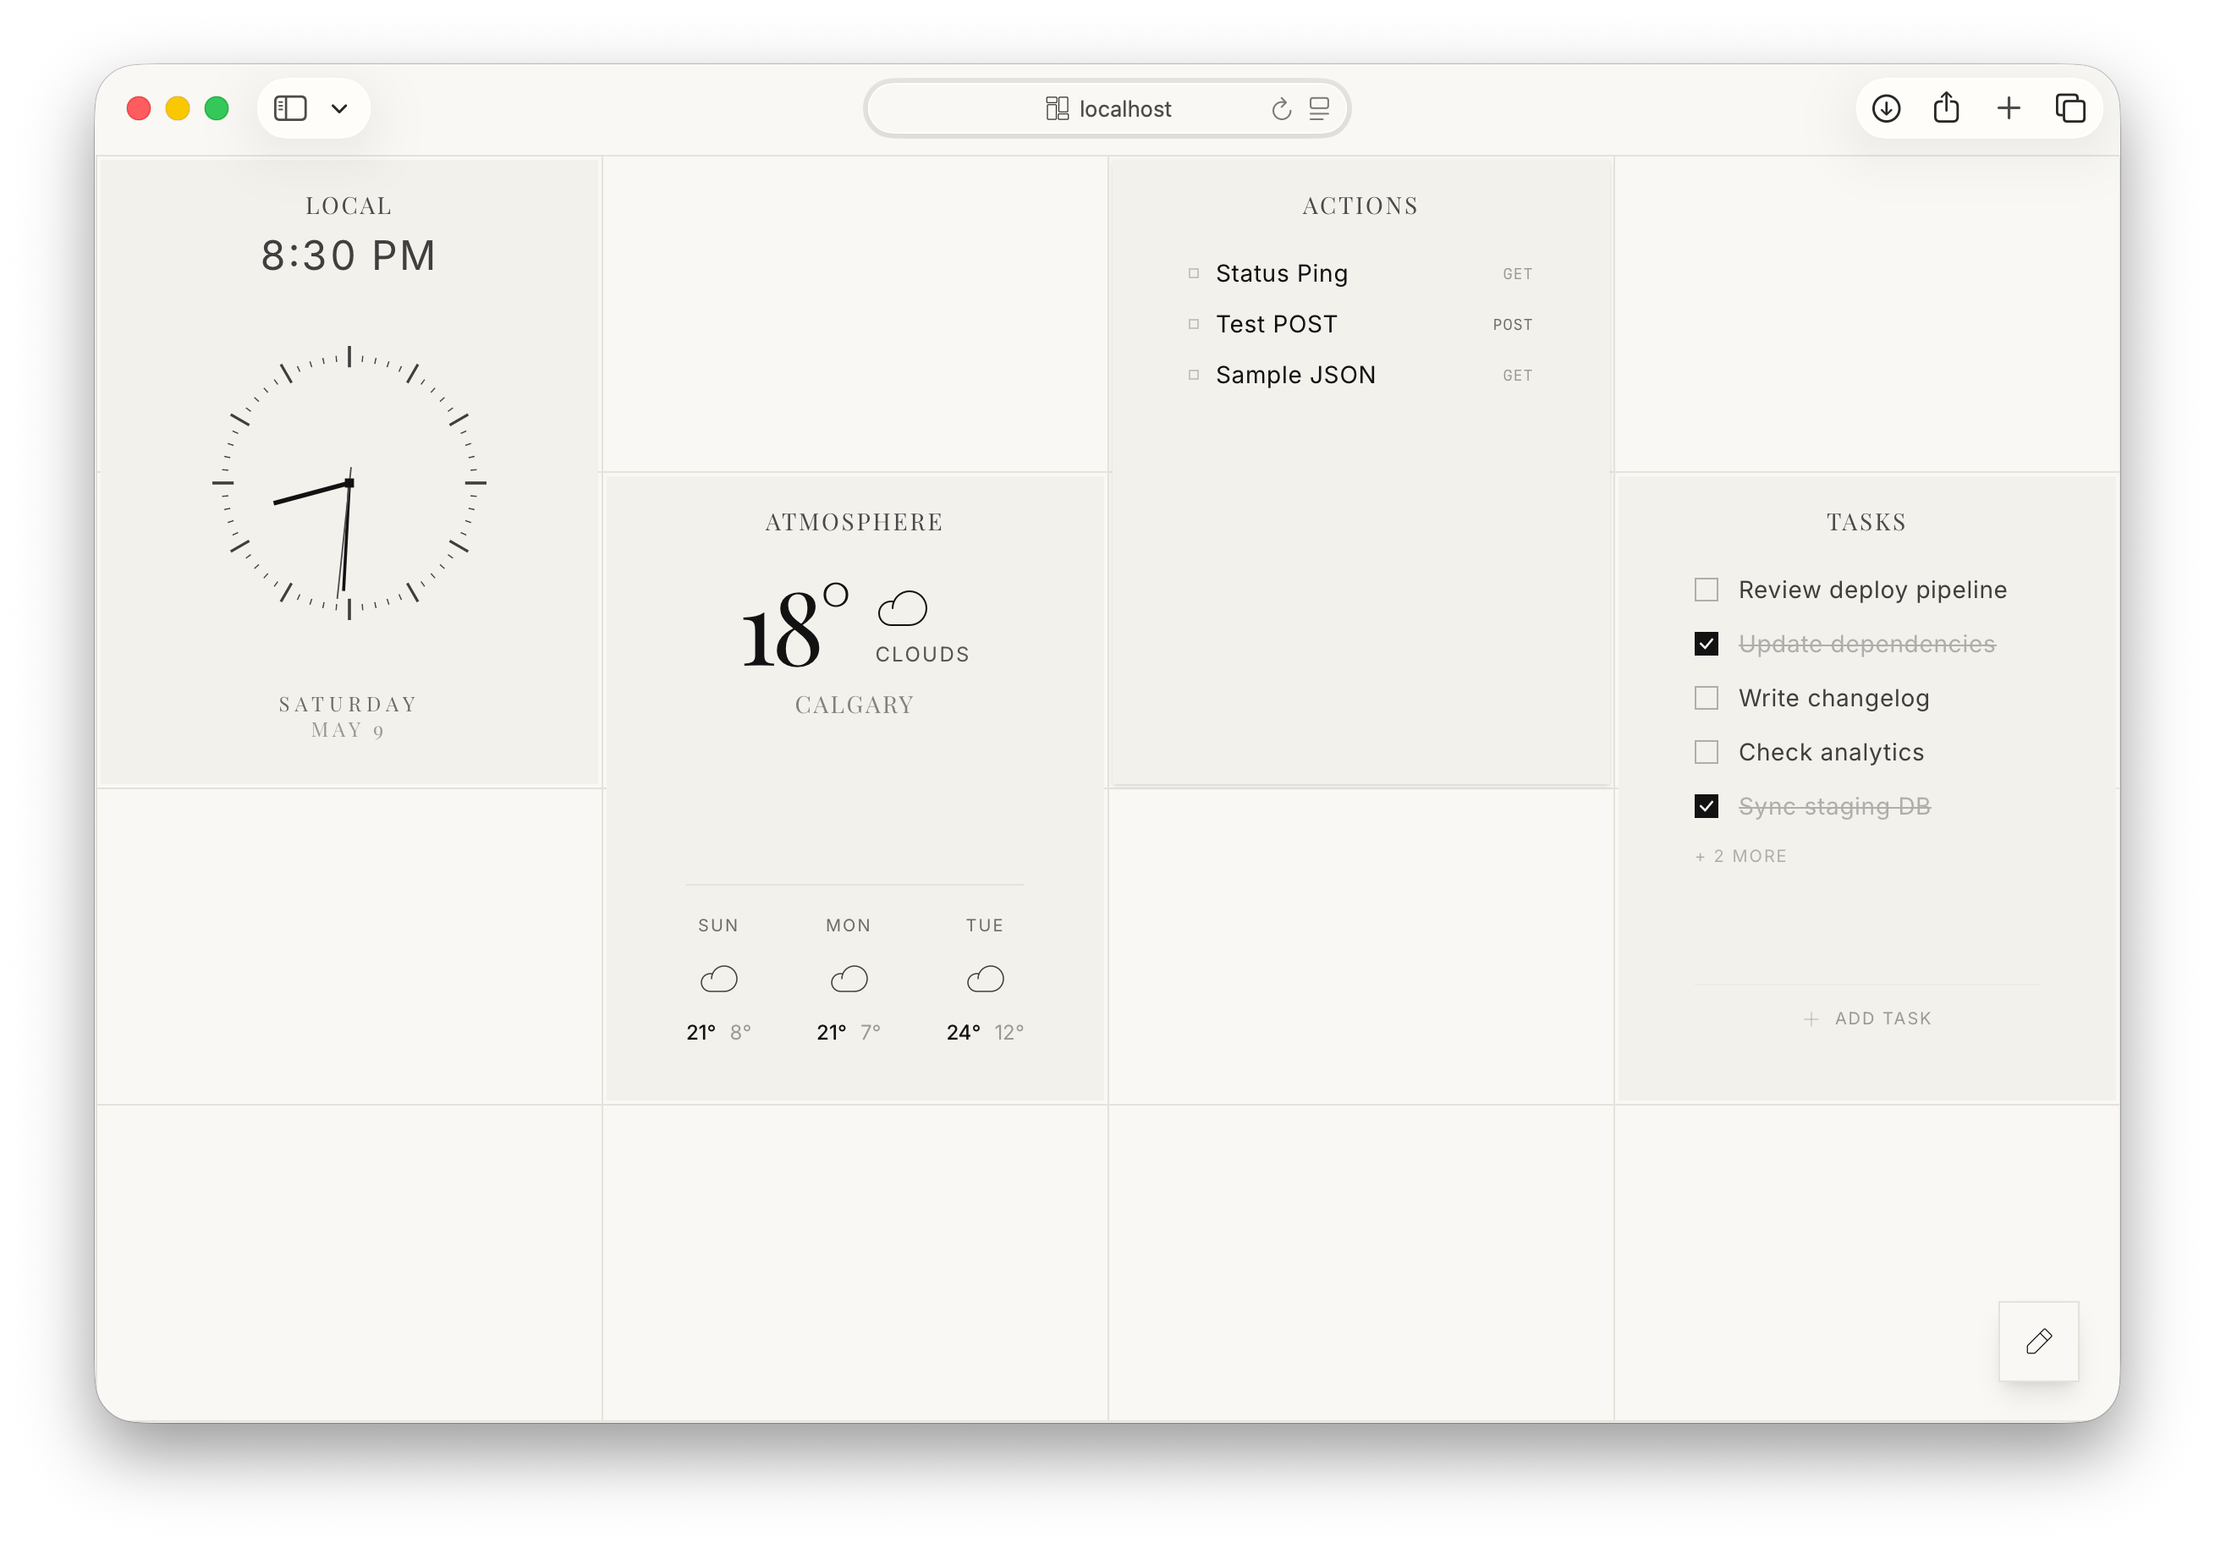
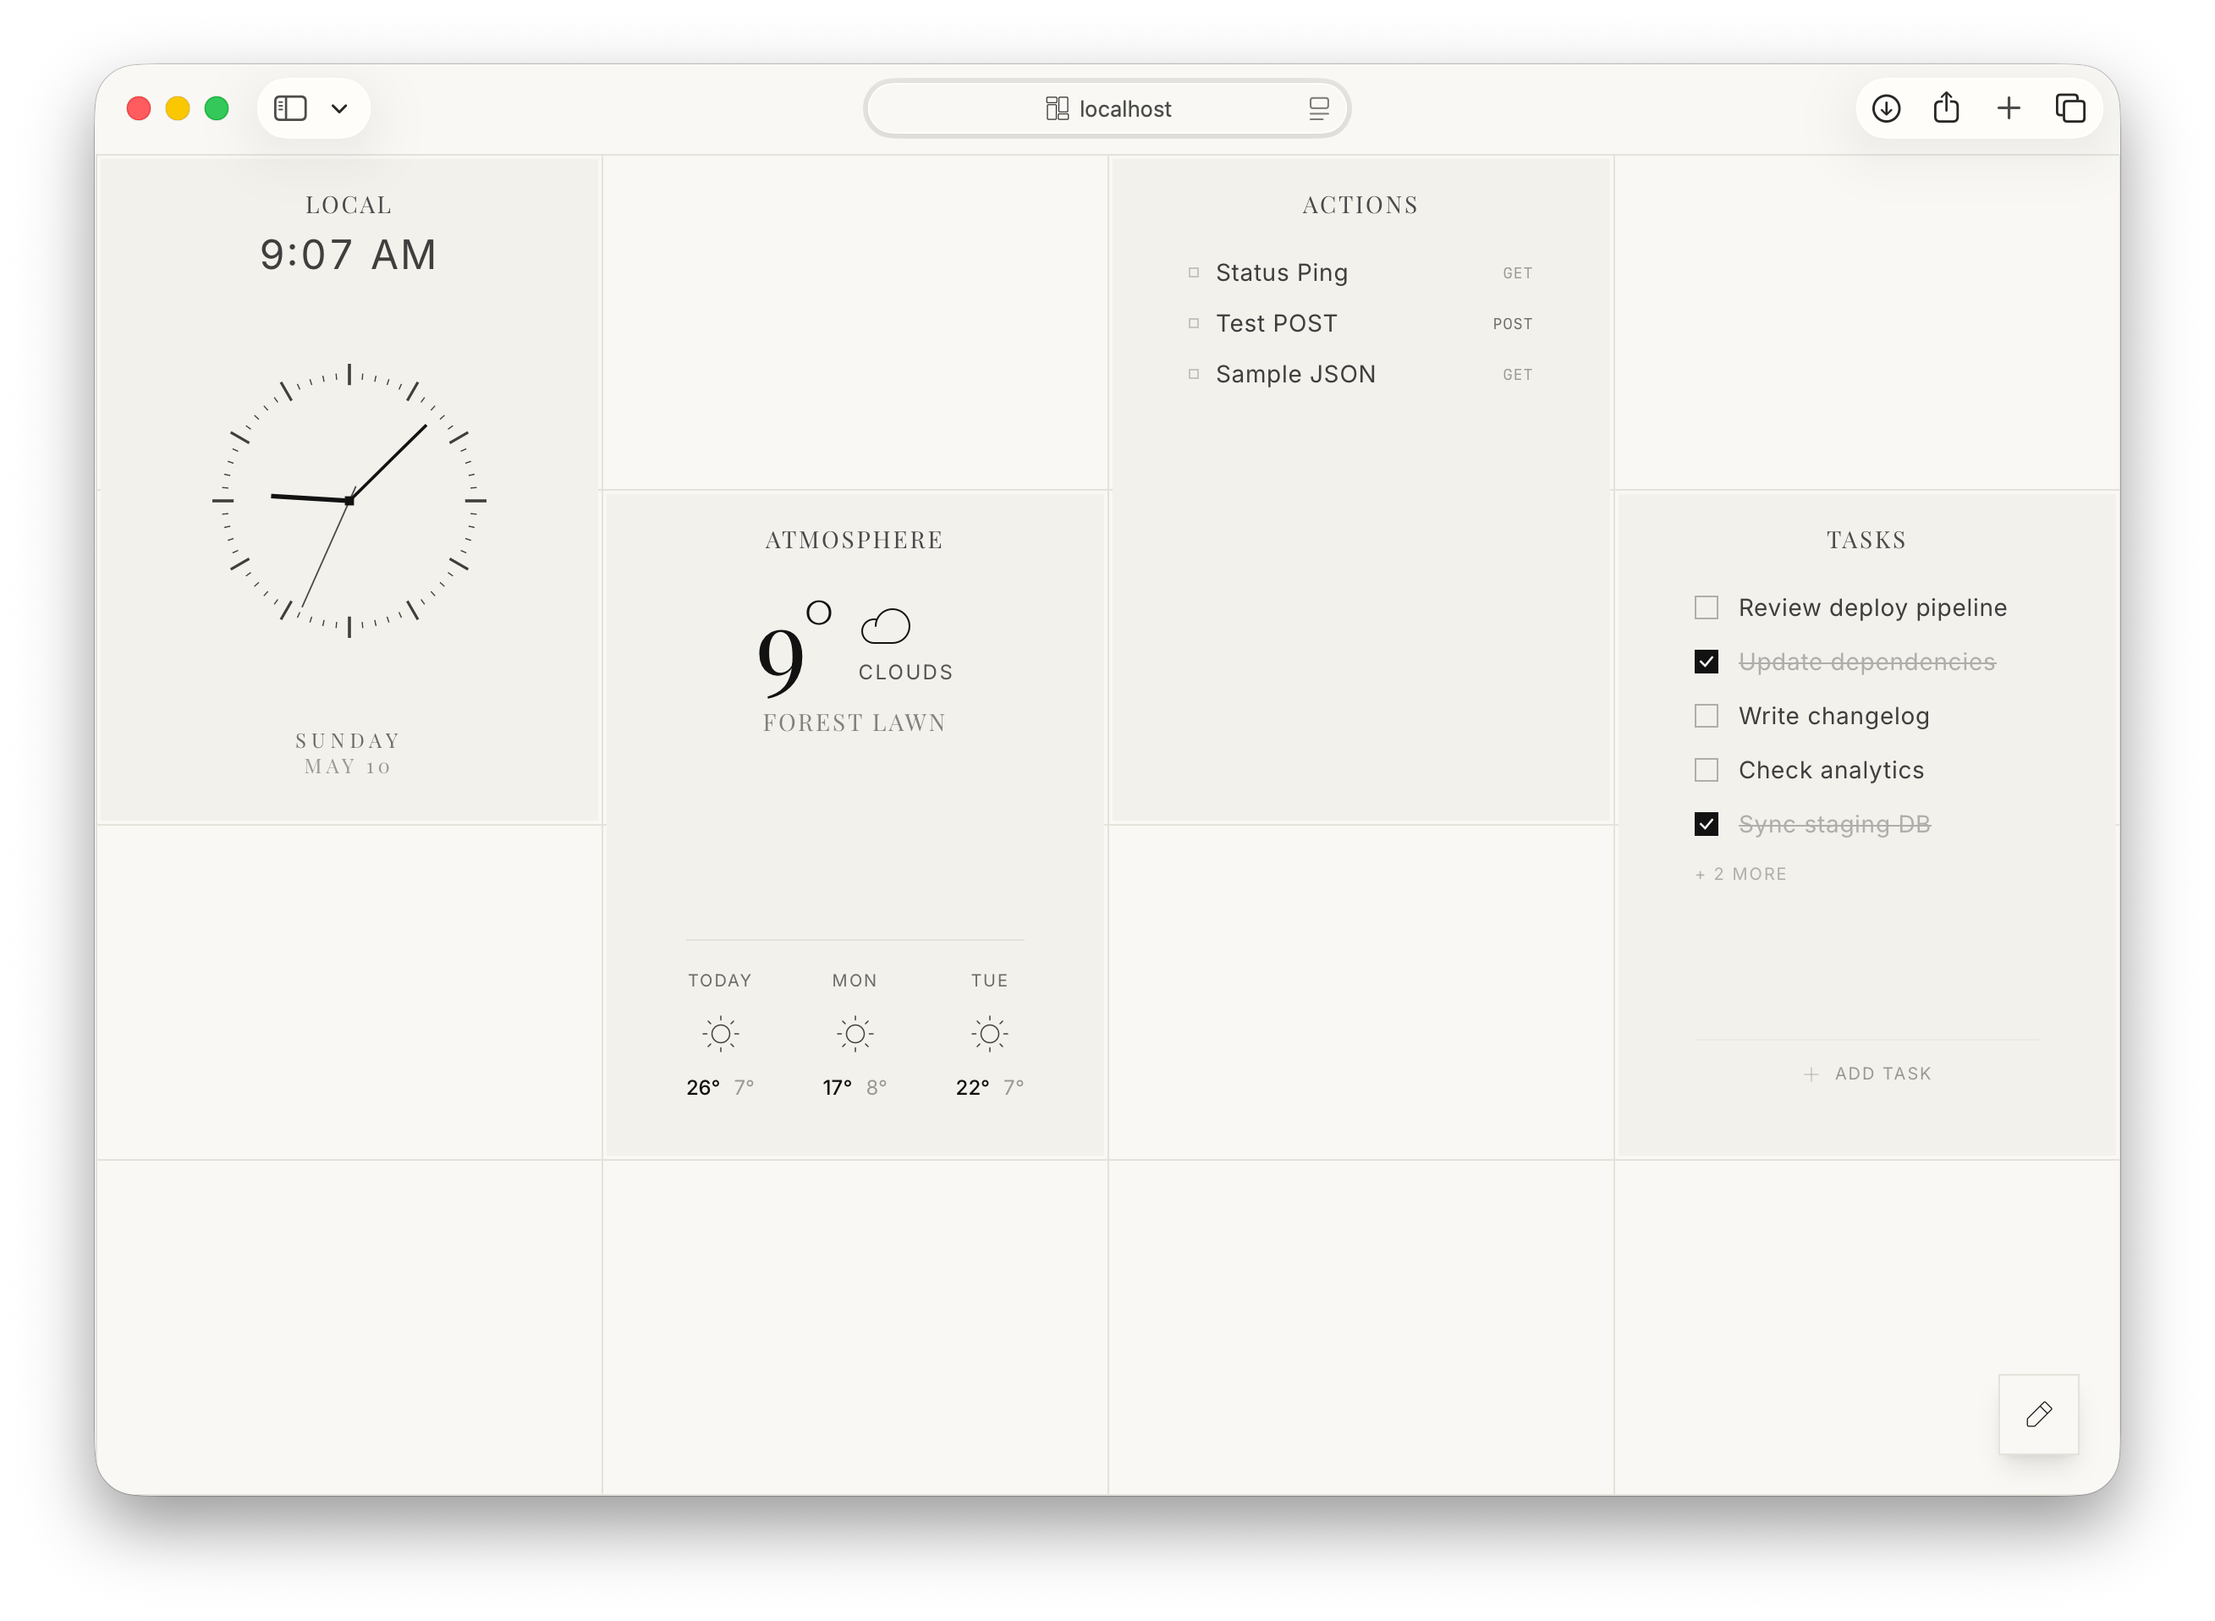
v1.1.0: wttr.in weather, scoped npm package

diff --git a/src/hooks/useWeather.ts b/src/hooks/useWeather.ts
@@ -1,111 +1,89 @@
 import { useQuery } from '@tanstack/react-query';
-import { WEATHER_API_KEY, DEFAULT_CITY } from '../lib/constants';
+import { DEFAULT_CITY } from '../lib/constants';
 
-interface CurrentWeather {
-  main: { temp: number; feels_like: number; pressure: number; humidity: number };
-  wind: { speed: number };
-  weather: Array<{ id: number; main: string; description: string; icon: string }>;
-  name: string;
+interface WttrCurrent {
+  temp_C: string;
+  FeelsLikeC: string;
+  humidity: string;
+  windspeedKmph: string;
+  pressure: string;
+  weatherCode: string;
+  weatherDesc: Array<{ value: string }>;
 }
 
-interface ForecastItem {
-  dt: number;
-  main: { temp: number; temp_min: number; temp_max: number; pressure: number; humidity: number };
-  wind: { speed: number };
-  weather: Array<{ id: number; main: string; description: string; icon: string }>;
-  dt_txt: string;
+interface WttrHourly {
+  weatherDesc: Array<{ value: string }>;
+  weatherCode: string;
 }
 
-interface Forecast {
-  list: ForecastItem[];
+interface WttrDay {
+  date: string;
+  maxtempC: string;
+  mintempC: string;
+  hourly: WttrHourly[];
+}
+
+interface WttrNearestArea {
+  areaName: Array<{ value: string }>;
+  country: Array<{ value: string }>;
+}
+
+interface WttrResponse {
+  current_condition: WttrCurrent[];
+  weather: WttrDay[];
+  nearest_area: WttrNearestArea[];
+}
+
+function toCondition(desc: string): string {
+  const lower = desc.toLowerCase();
+  if (lower.includes('rain') || lower.includes('drizzle') || lower.includes('patchy')) return 'Rain';
+  if (lower.includes('snow') || lower.includes('sleet') || lower.includes('blizzard')) return 'Snow';
+  if (lower.includes('thunder') || lower.includes('storm')) return 'Thunderstorm';
+  if (lower.includes('cloud') || lower.includes('overcast')) return 'Clouds';
+  if (lower.includes('fog') || lower.includes('mist') || lower.includes('haze')) return 'Mist';
+  if (lower.includes('clear') || lower.includes('sunny')) return 'Clear';
+  return 'Clouds';
+}
+
+function getDayName(dateStr: string, index: number): string {
+  if (index === 0) return 'Today';
+  const [y, m, d] = dateStr.split('-').map(Number);
+  return new Date(y, m - 1, d).toLocaleDateString('en-US', { weekday: 'short' });
 }
 
 export function useWeather(city: string = DEFAULT_CITY) {
   return useQuery({
     queryKey: ['weather', city],
     queryFn: async () => {
-      const effectiveKey = (typeof localStorage !== 'undefined' && localStorage.getItem('monolith_owm_key')) || WEATHER_API_KEY;
+      const res = await fetch(`https://wttr.in/${encodeURIComponent(city)}?format=j1`);
+      if (!res.ok) throw new Error('Weather fetch failed');
+      const data: WttrResponse = await res.json();
 
-      const [currentRes, forecastRes] = await Promise.all([
-        fetch(`https://api.openweathermap.org/data/2.5/weather?q=${city}&units=metric&appid=${effectiveKey}`),
-        fetch(`https://api.openweathermap.org/data/2.5/forecast?q=${city}&units=metric&appid=${effectiveKey}`)
-      ]);
+      const c = data.current_condition[0];
+      const desc = c.weatherDesc[0]?.value || 'Clear';
+      const location = data.nearest_area[0]?.areaName[0]?.value || city;
 
-      if (!currentRes.ok || !forecastRes.ok) {
-        console.warn('Weather API failed, likely due to a new or invalid API key. Falling back to mock data.');
-        const nextDays = Array.from({length: 5}).map((_, i) => {
-          const d = new Date();
-          d.setDate(d.getDate() + i + 1);
-          return d;
-        });
-
-        return {
-          current: {
-            temp: 18,
-            feelsLike: 17,
-            condition: 'Clear',
-            icon: '01d',
-            location: city || DEFAULT_CITY,
-            humidity: 53,
-            windSpeed: 4.1,
-            pressure: 1013,
-            isMock: true
-          },
-          forecast: nextDays.map(date => ({
-            date: date.toISOString().split('T')[0],
-            dayName: date.toLocaleDateString('en-US', { weekday: 'short' }),
-            min: 12 + Math.floor(Math.random() * 5),
-            max: 20 + Math.floor(Math.random() * 5),
-            condition: ['Clear', 'Clouds', 'Rain'][Math.floor(Math.random() * 3)],
-            icon: '01d'
-          }))
-        };
-      }
-
-      const current: CurrentWeather = await currentRes.json();
-      const forecast: Forecast = await forecastRes.json();
-
-      const dailyForecasts = new Map<string, { min: number; max: number; weather: any }>();
-      const today = new Date().toISOString().split('T')[0];
-
-      for (const item of forecast.list) {
-        const date = item.dt_txt.split(' ')[0];
-        if (date === today) continue;
-        if (dailyForecasts.size >= 5 && !dailyForecasts.has(date)) break;
-        if (!dailyForecasts.has(date)) {
-          dailyForecasts.set(date, {
-            min: item.main.temp_min,
-            max: item.main.temp_max,
-            weather: item.weather[0],
-          });
-        } else {
-          const existing = dailyForecasts.get(date)!;
-          existing.min = Math.min(existing.min, item.main.temp_min);
-          existing.max = Math.max(existing.max, item.main.temp_max);
-        }
-      }
-
-      return {
-        current: {
-          temp: Math.round(current.main.temp),
-          feelsLike: Math.round(current.main.feels_like),
-          condition: current.weather[0].main,
-          icon: current.weather[0].icon,
-          location: current.name,
-          humidity: current.main.humidity,
-          windSpeed: current.wind.speed,
-          pressure: current.main.pressure,
-          isMock: false,
-        },
-        forecast: Array.from(dailyForecasts.entries()).map(([date, data]) => ({
-          date,
-          dayName: new Date(date).toLocaleDateString('en-US', { weekday: 'short' }),
-          min: Math.round(data.min),
-          max: Math.round(data.max),
-          condition: data.weather.main,
-          icon: data.weather.icon
-        }))
+      const current = {
+        temp: Math.round(Number(c.temp_C)),
+        feelsLike: Math.round(Number(c.FeelsLikeC)),
+        condition: toCondition(desc),
+        location,
+        humidity: Number(c.humidity),
+        windSpeed: Math.round(Number(c.windspeedKmph) / 3.6 * 10) / 10,
+        pressure: Number(c.pressure),
       };
+
+      const forecast = data.weather
+        .slice(0, 5)
+        .map((w, i) => ({
+          date: w.date,
+          dayName: getDayName(w.date, i),
+          min: Math.round(Number(w.mintempC)),
+          max: Math.round(Number(w.maxtempC)),
+          condition: toCondition(w.hourly[4]?.weatherDesc[0]?.value || 'Clear'),
+        }));
+
+      return { current, forecast };
     },
     refetchInterval: 5 * 60 * 1000,
   });

diff --git a/src/components/Dashboard.tsx b/src/components/Dashboard.tsx
@@ -1,7 +1,6 @@
 import { useState, useMemo, useEffect } from 'react';
 import { GridLayout } from 'react-grid-layout';
 import { useWindowSize } from '../hooks/useWindowSize';
-import { useQueryClient } from '@tanstack/react-query';
 import type { WidgetData, WidgetTier, TriggerButton } from '../types';
 import { Tile } from './Tile';
 import { Clock } from './Clock';
@@ -113,8 +112,6 @@ export function Dashboard() {
   const [showNoise, setShowNoise] = useState(false);
   const [toast, setToast] = useState<{message: string, type: 'success'|'error'|'info'} | null>(null);
   const [activePopover, setActivePopover] = useState<'add' | 'canvas' | null>(null);
-
-  const queryClient = useQueryClient();
 
   const showToast = (message: string, type: 'success'|'error'|'info' = 'info') => {
     setToast({ message, type });
@@ -547,32 +544,6 @@ export function Dashboard() {
                     }}
                   />
                   <span className="font-sans text-[10px] opacity-40">Press Enter to save</span>
-                </div>
-                <div className="flex flex-col gap-2">
-                  <label className="font-sans text-xs uppercase tracking-wider opacity-60">OpenWeather API Key</label>
-                  <input
-                    type="text"
-                    defaultValue={typeof localStorage !== 'undefined' ? localStorage.getItem('monolith_owm_key') || '' : ''}
-                    placeholder="Enter API key"
-                    className="bg-transparent border-[1px] border-border p-2 font-sans text-sm outline-none focus:border-charcoal transition-colors"
-                    onKeyDown={(e) => {
-                      if (e.key === 'Enter') {
-                        const val = (e.currentTarget as HTMLInputElement).value.trim();
-                        try {
-                          if (typeof localStorage !== 'undefined') {
-                            if (val) localStorage.setItem('monolith_owm_key', val);
-                            else localStorage.removeItem('monolith_owm_key');
-                          }
-                          queryClient.invalidateQueries({ queryKey: ['weather'] });
-                          showToast(val ? 'Weather key saved' : 'Weather key cleared', 'success');
-                          setEditingWidget(null);
-                        } catch (err) {
-                          showToast('Failed to save key', 'error');
-                        }
-                      }
-                    }}
-                  />
-                  <span className="font-sans text-[10px] opacity-40">Press Enter to save. Stored locally only.</span>
                 </div>
               </div>
             )}

diff --git a/src/components/Weather.tsx b/src/components/Weather.tsx
@@ -30,9 +30,6 @@ export function Weather({ city, tier = 'compact' }: { city?: string; tier?: Widg
   if (tier === 'compact') {
     return (
       <div className="flex flex-col items-center justify-center w-full h-full relative">
-        {data.current.isMock && (
-          <div className="absolute top-1 left-1 bg-yellow-200 text-yellow-900 text-[10px] px-2 py-0.5 tracking-widest font-sans">MOCK</div>
-        )}
         <div className="flex items-center gap-2">
           <span className="font-serif text-4xl font-normal tracking-tighter">{data.current.temp}°</span>
           {getWeatherIcon(data.current.condition, true, true)}
@@ -43,10 +40,6 @@ export function Weather({ city, tier = 'compact' }: { city?: string; tier?: Widg
 
   return (
     <div className="flex flex-col w-full h-full justify-between items-center py-2 relative">
-      {data.current.isMock && (
-        <div className="absolute top-1 left-1 bg-yellow-200 text-yellow-900 text-[10px] px-2 py-0.5 tracking-widest font-sans">MOCK</div>
-      )}
-
       <div className="flex flex-col items-center mt-2">
         <div className="flex items-center gap-4">
           <span className={`font-serif font-normal tracking-tighter ${tier === 'expanded' ? 'text-7xl' : 'text-6xl'}`}>

diff --git a/src/lib/constants.ts b/src/lib/constants.ts
@@ -1,2 +1,1 @@
-export const WEATHER_API_KEY = '9d0b0823fa932825d22e458c985ef8c4';
 export const DEFAULT_CITY = 'Calgary';

diff --git a/README.md b/README.md
@@ -9,7 +9,7 @@
 - **4×4 grid** — fixed viewport-filling layout, no scrolling
 - **3 widget tiers** — compact (1×1), standard (2–8 area), expanded (9+ area)
 - **Clock** — analog SVG face + digital 12h time + date + greeting; configurable timezone
-- **Weather** — current conditions + forecast; OpenWeatherMap-backed with mock fallback
+- **Weather** — current conditions + 3-day forecast; powered by wttr.in (no API key needed)
 - **Tasks** — checklist with progress bar; auto-removal after configurable delay
 - **Actions** — fire arbitrary HTTP requests from user-configured trigger buttons
 - **Persistent** — layout, backgrounds, grid settings, and widget configs saved to localStorage
@@ -29,7 +29,7 @@
 | Icons | @phosphor-icons/react |
 | Data | @tanstack/react-query |
 | Fonts | Playfair Display + Inter (Google Fonts) |
-| Weather | OpenWeatherMap API |
+| Weather | wttr.in |
 
 ## Install
 
@@ -73,16 +73,15 @@ npm run preview
 | Widget | Compact (1×1) | Standard (2–8) | Expanded (9+) |
 |--------|---------------|-----------------|---------------|
 | **Clock** | Analog clock face | + digital time + date | + greeting |
-| **Weather** | Temp + icon | + location + 3-day forecast | + feelsLike/humidity/wind/pressure + 5-day forecast |
+| **Weather** | Temp + icon | + location + 3-day forecast | + feelsLike/humidity/wind/pressure + 3-day forecast |
 | **Tasks** | Done/total count + progress bar | Checklist (5 items) with inline add | Full list + inline add |
 | **Actions** | Count + first trigger name | Scrollable list with method/status | 2-column card grid |
 
 ## Configuration
 
 ### Weather
-- Default city: Calgary
-- API key stored in browser — set your own in the Weather Gear modal, or use the built-in key
-- Falls back to mock data on fetch failure
+- Default city: Calgary — change in the Weather Gear modal
+- Powered by wttr.in (no API key required)
 
 ### Tasks
 - Remove completed tasks: Never / Instantly / After 1h / After 1d
@@ -107,10 +106,7 @@ npm run preview
 
 ## Data Persistence
 
-All state is stored in `localStorage` under two keys:
-
-- `monolith_dashboard_state` — widgets, layout, background, grid, noise settings
-- `monolith_owm_key` — optional OpenWeatherMap API key override
+All state is stored in `localStorage` under `monolith_dashboard_state` — widgets, layout, background, grid, noise settings.
 
 No backend or server-side storage required.
 
